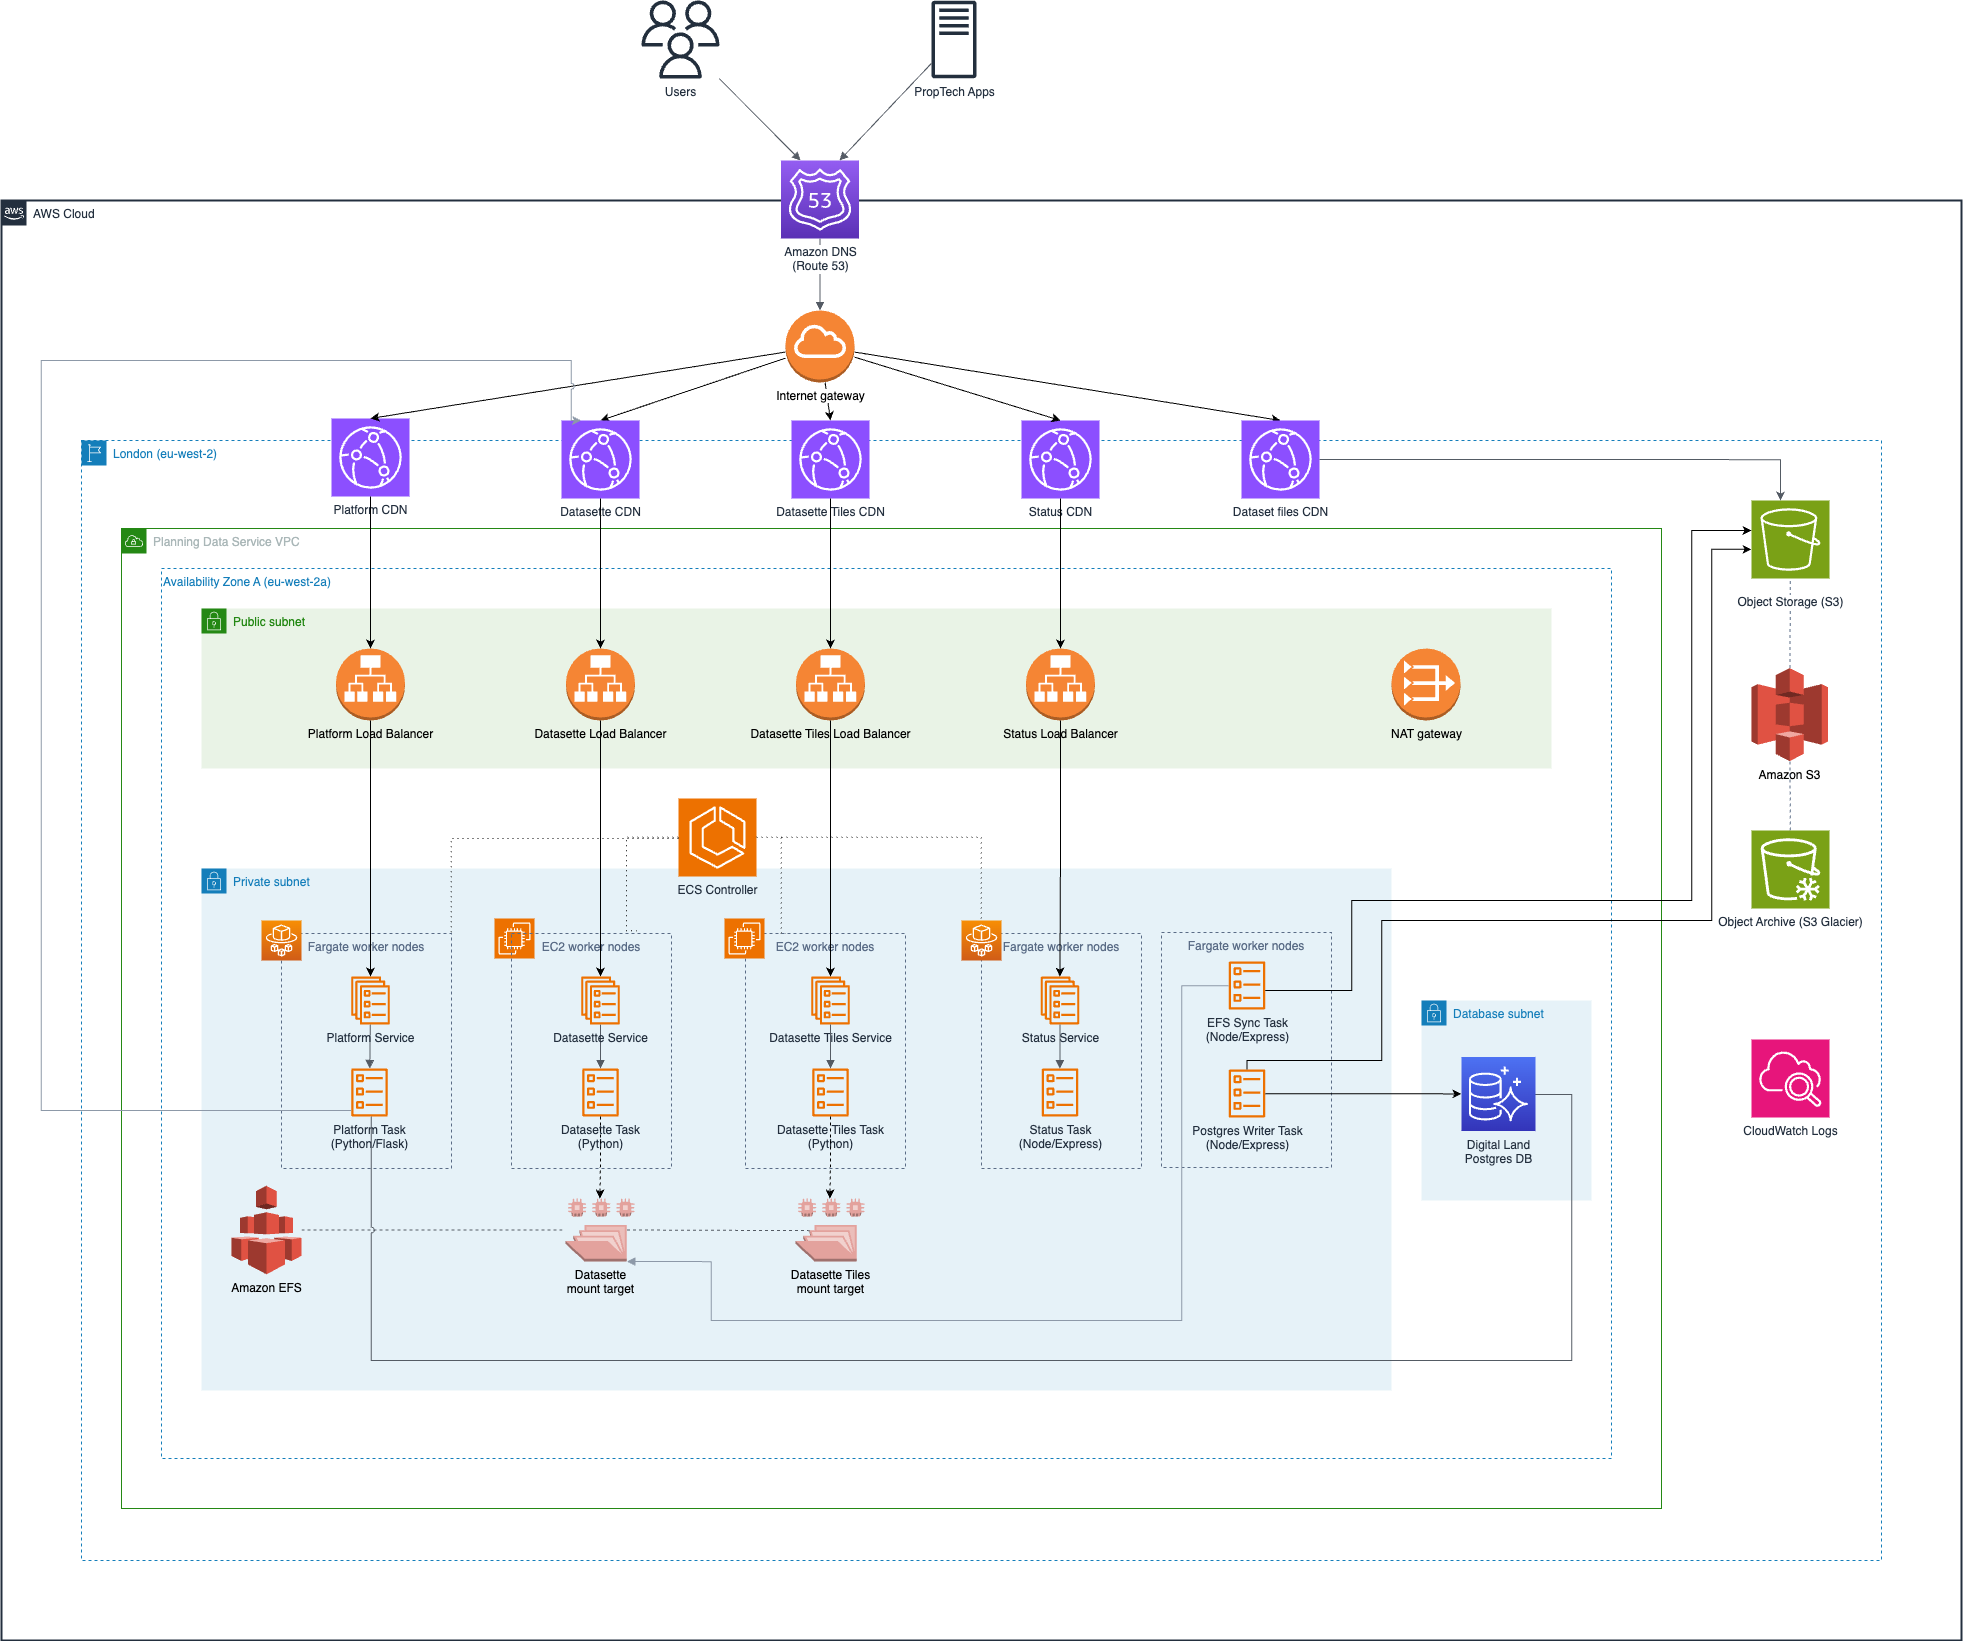
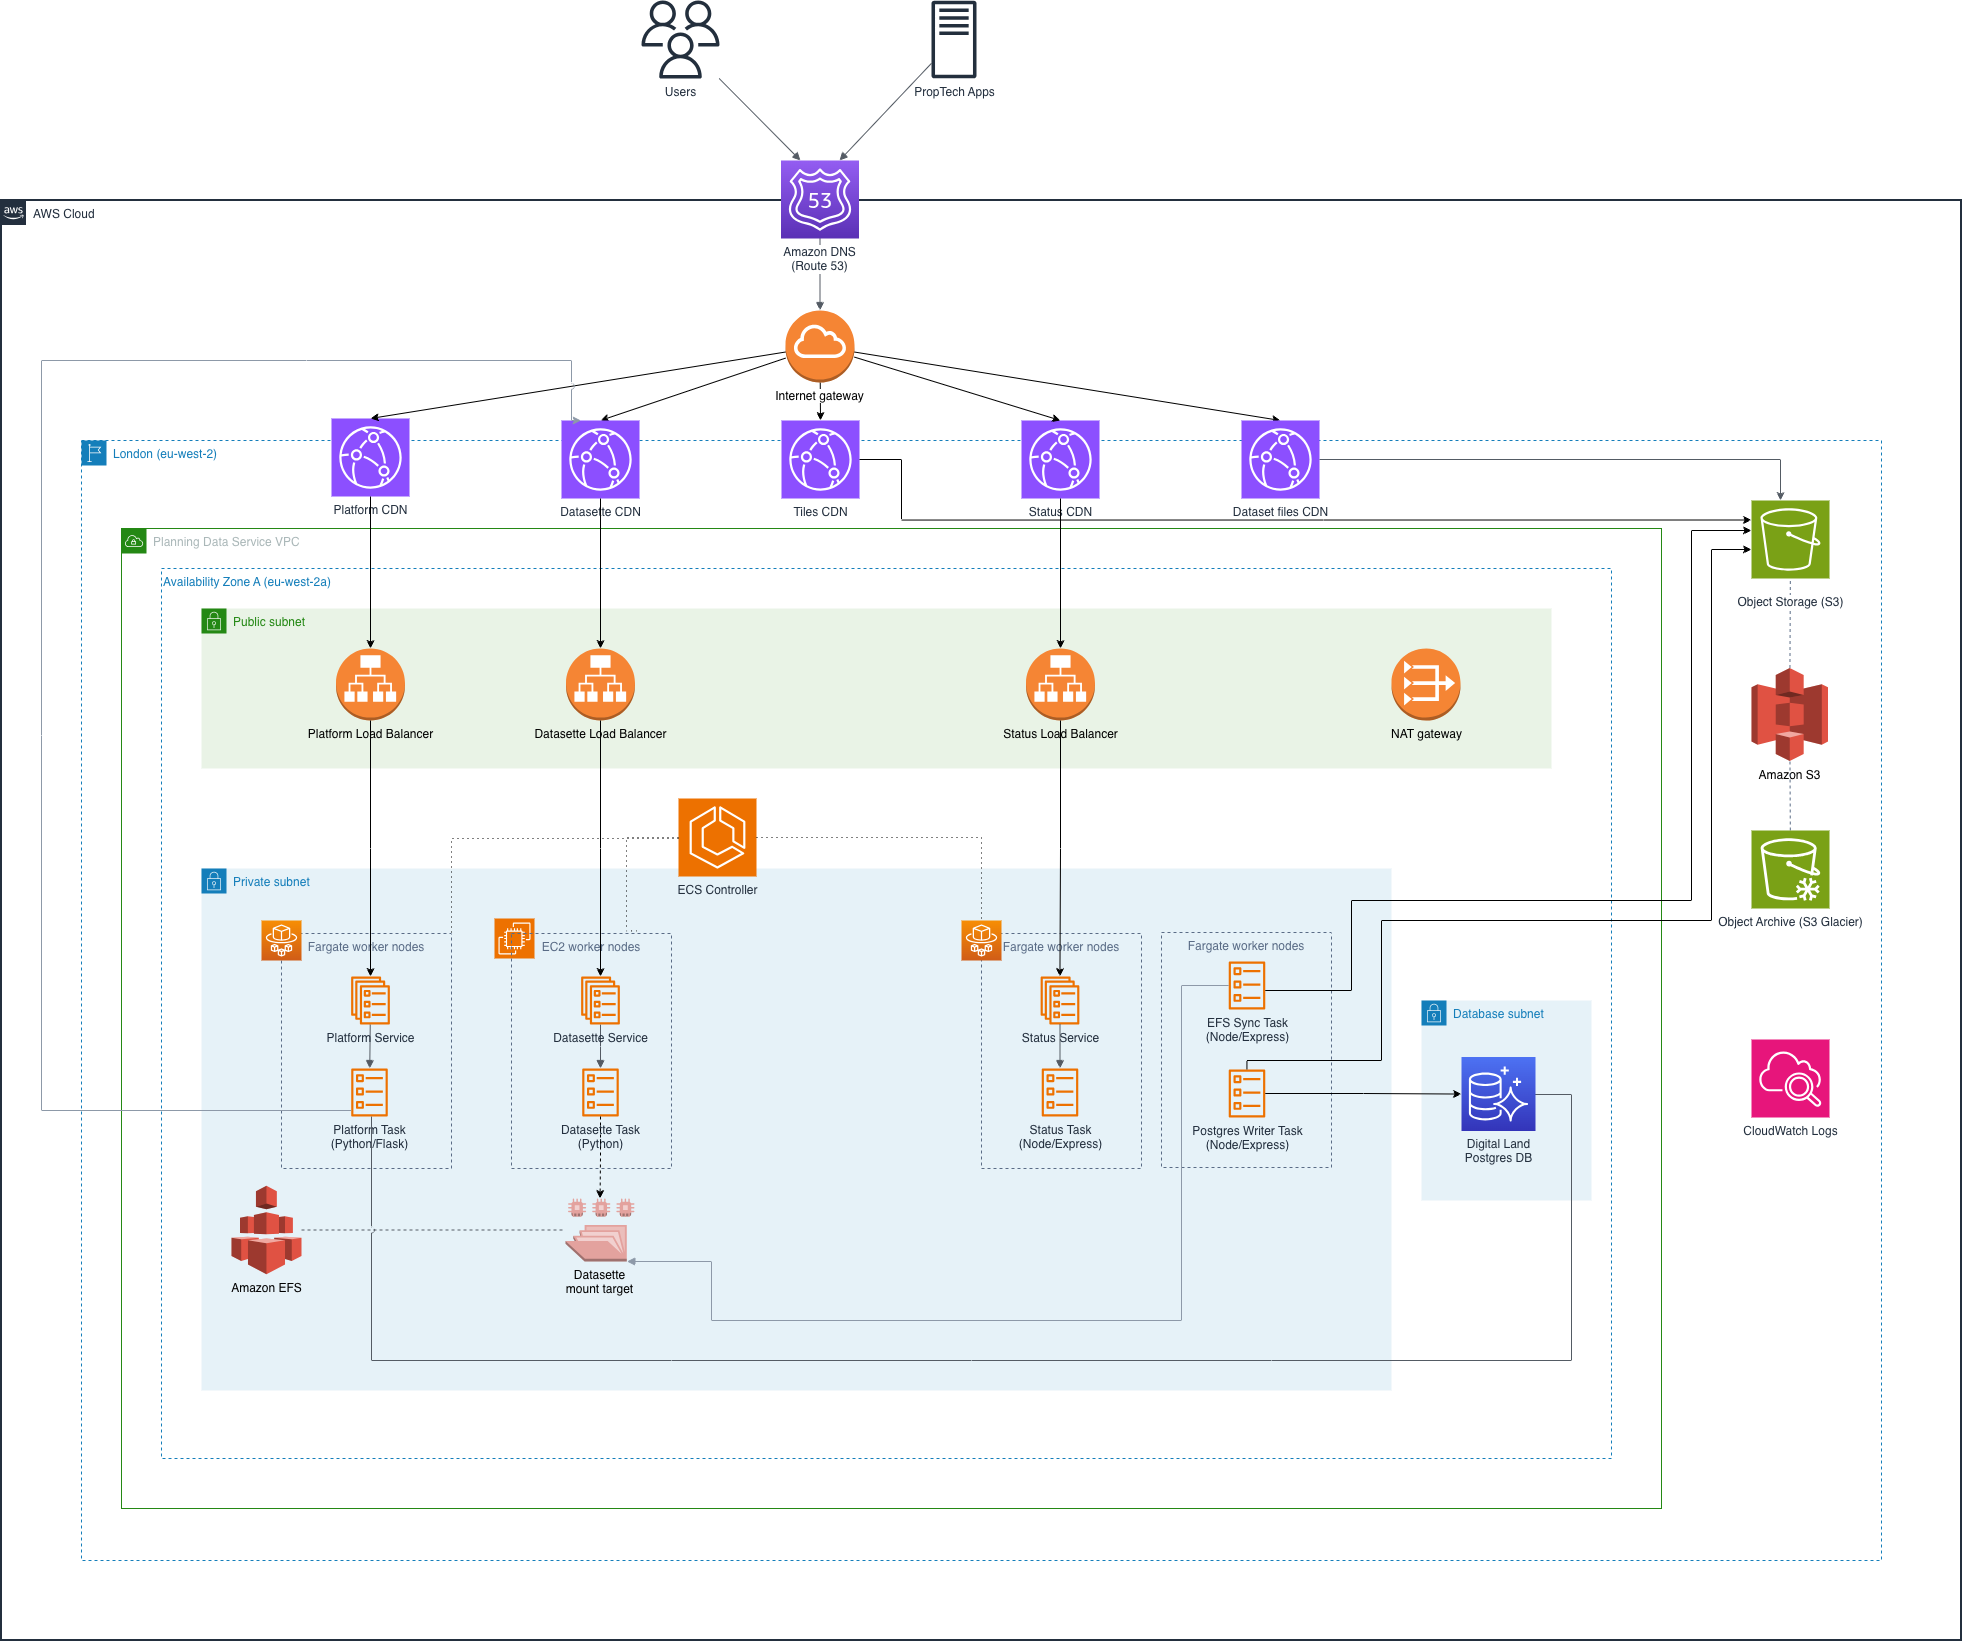
update deployer diagram and fix hyperlinks

diff --git a/docs/architecture-and-infrastructure/solution-design/planning-data-platform.md b/docs/architecture-and-infrastructure/solution-design/planning-data-platform.md
@@ -14,45 +14,45 @@ title: Solution design - Planning Data Platform
 
 #### Planning Data Application
 
-This is both the API and website found at [www.planning.data.gov.uk]. This is the main entry point for data consumers as well as aplication built using our data
+This is both the API and website found at [www.planning.data.gov.uk](https://www.planning.data.gov.uk). This is the main entry point for data consumers as well as aplication built using our data
 
 Key Info:
-- Repository: [https://github.com/digital-land/digital-land.info] (the site was originally known as digital-land.info)
+- Repository: [digital-land.info](https://github.com/digital-land/digital-land.info) (the site was originally known as digital-land.info)
 - Sentry Project: planning-data-platform
 - Terraform System: platform
 - Framework: FastAPI
 
 #### Digital Land Database
 
-This is the main postgres/postgis database supporting the platform as is primarily used int he search queries on Planning Data. It's structure is controlled by sqlaclhemy models via alembic found in [https://github.com/digital-land/digital-land.info].
+This is the main postgres/postgis database supporting the platform as is primarily used int he search queries on Planning Data. It's structure is controlled by sqlaclhemy models via alembic found in the digital-land.info repo listed below.
 
 Key Info:
-- Repository: [https://github.com/digital-land/digital-land.info] (the code that manages it's shape is defined in here, see the migrations foder and the. appication db folder)
+- Repository: [digital-land.info](https://github.com/digital-land/digital-land.info) - The code that manages it's shape is defined in here, see the migrations foder and the. appication db folder
 - Terraform System: core (required across multiple software systems so is defined in core)
 
 #### Tiles Bucket
 
-AWS S3 bucket conntaining vector tilles for dispplaying maps on the website, it is behind a publicaly avialable CDN found at [tiles.planning.data.gov.uk].
+AWS S3 bucket conntaining vector tilles for dispplaying maps on the website, it is behind a publicaly avialable CDN found at [tiles.planning.data.gov.uk](https://tiles.planning.data.gov.uk).
 
 Key Info:
-- Repository: [https://github.com/digital-land/tiles-builder-task] - this belongs to the Data Collection Pipelines system but is the task that creates the tiles
+- Repository: [tiles-builder-task](https://github.com/digital-land/tiles-builder-task) - this belongs to the Data Collection Pipelines system but is the task that creates the tiles
 - Terraform System: core - to give access across systems
 
 #### Files Bucket
 
-AWS S3 bucket conntaining all files collected and transformed in the planning data service. The Files bucket contains raw resources colllected from providers, sqlite dataset package files and dataset files. This covers files in bronze,silver and god layers. It is behind a publicaly avialable CDN found at [tiles.planning.data.gov.uk].
+AWS S3 bucket conntaining all files collected and transformed in the planning data service. The Files bucket contains raw resources colllected from providers, sqlite dataset package files and dataset files. This covers files in bronze,silver and god layers. It is behind a publicaly avialable CDN found at [files.planning.data.gov.uk](https://files.planning.data.gov.uk).
 
 Key Info:
 - Repositories: 
-  - [https://github.com/digital-land/collection-task] - this is the main containner image used for our processing which writes files to this s3 bucket.
+  - [collection-task](https://github.com/digital-land/collection-task) - this is the main containner image used for our processing which writes files to this s3 bucket.
 - Terraform System: core - to give access across systems
 
 #### Datasette Application
 
-Currently being used as a way to access our silver layer which is a set of sqlite files. These sqlite files are a mixture of dataset packages and reporting packages.
+Currently being used as a way to access our silver layer which is a set of sqlite files. These sqlite files are a mixture of dataset packages and reporting packages. Can be found at [datasette.planning.data.gov.uk](https://datasette.planning.data.gov.uk)
 
 Key Info:
-- Repository: [https://github.com/digital-land/datasette-builder] - application code for this, primarily just runs datasette python package with a specific startup script
+- Repository: [datasette-builder](https://github.com/digital-land/datasette-builder) - application code for this, primarily just runs datasette python package with a specific startup script
 - Terraform System: platform
 
 #### Datasets Volume
@@ -60,7 +60,7 @@ Key Info:
 EFS volumne for storing dataset package sqlite files as datasette can't access them directly fom S3
 
 Key Info:
-- Repository: [https://github.com/digital-land/digital-land-efs-sync] - task which is triggered via event bridge to load sqlite files from the Files bucket into the Datasets Volume. pat of the data collection pipeline system
+- Repository: [digital-land-efs-sync](https://github.com/digital-land/digital-land-efs-sync) - task which is triggered via event bridge to load sqlite files from the Files bucket into the Datasets Volume. pat of the data collection pipeline system
 - Terraform System: core
 
 